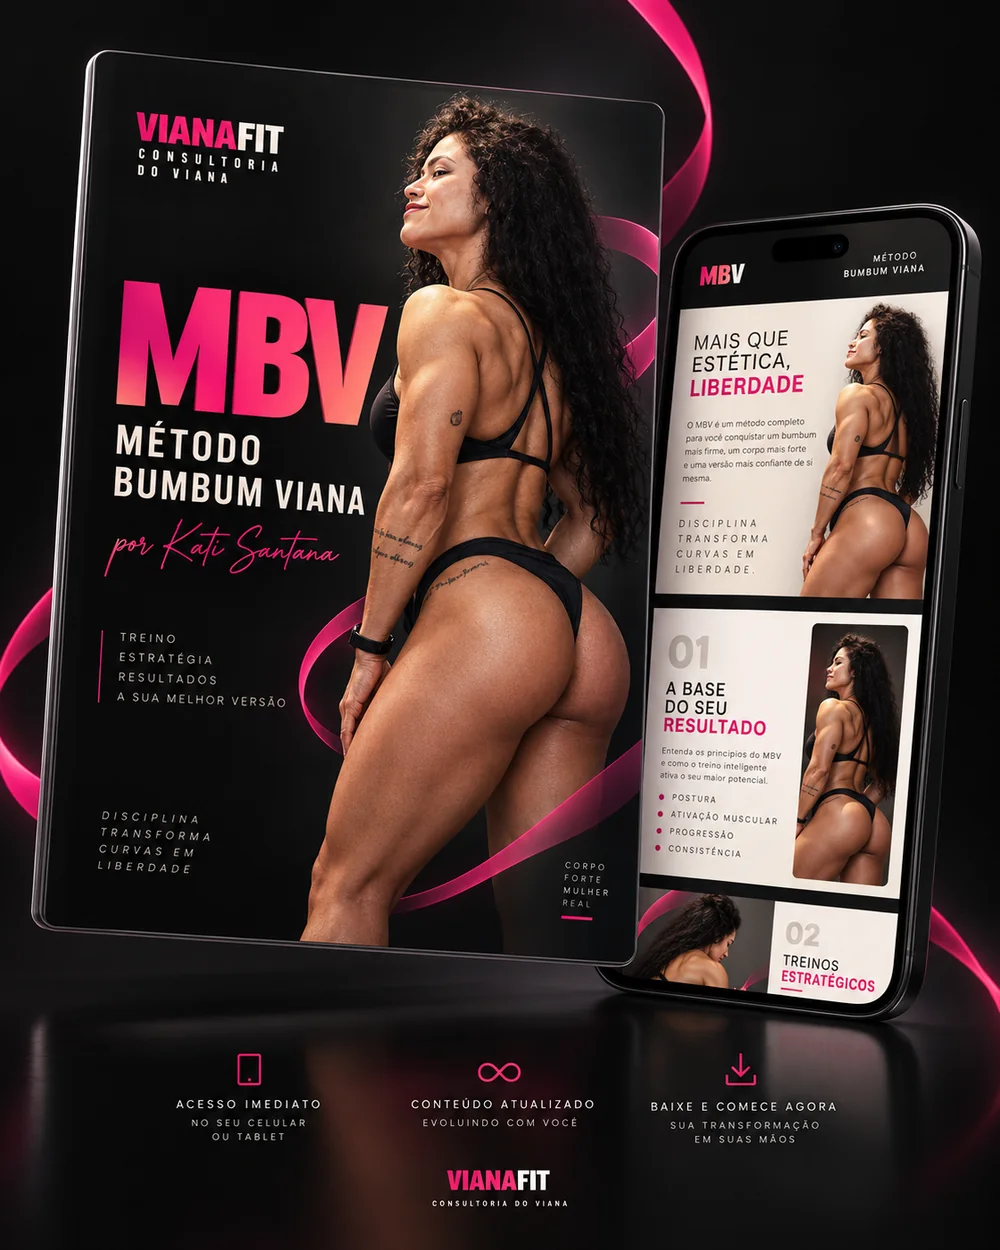
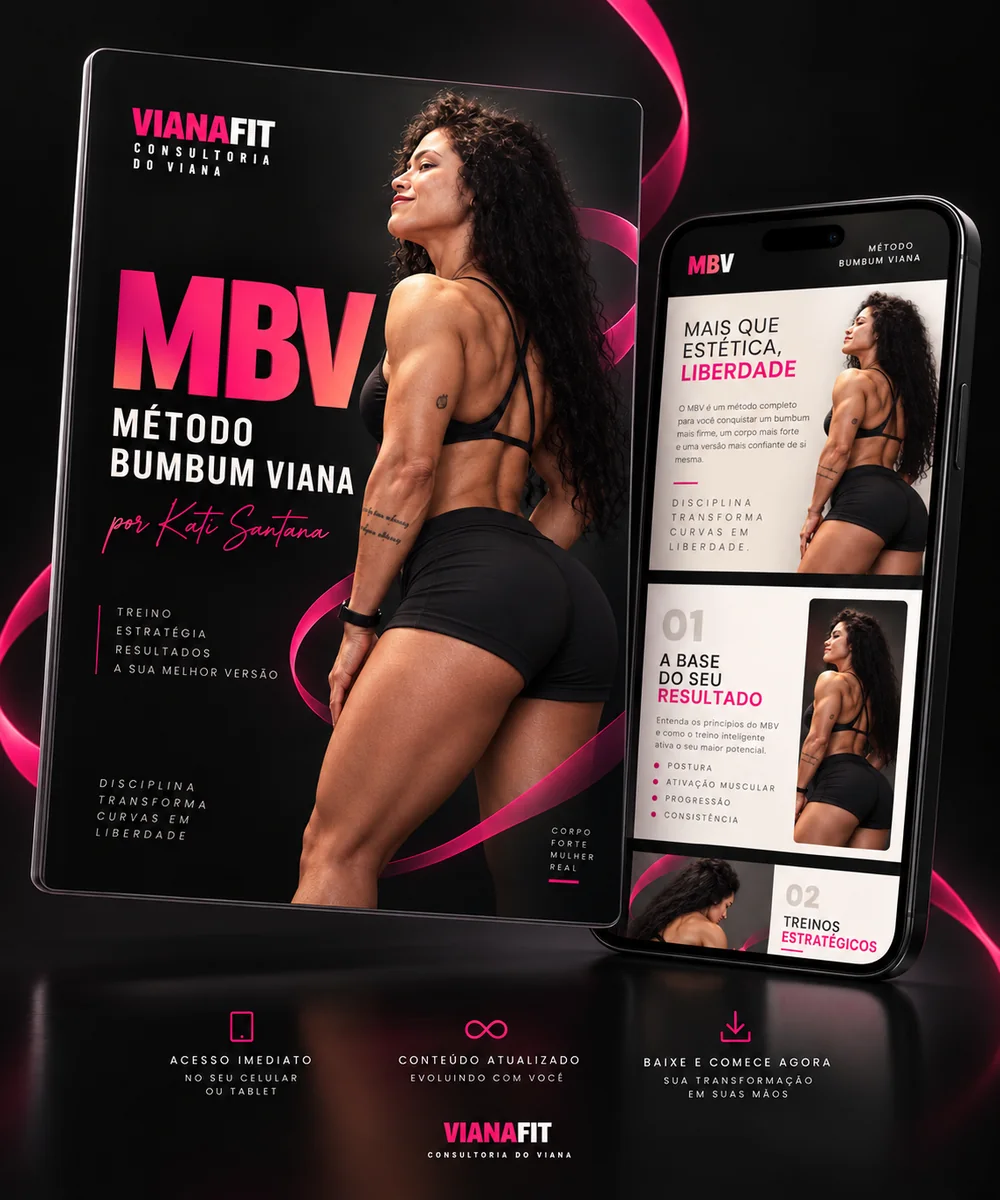
Arte nova do ebook no painel 03
mbv/Ebook.png entra no lugar da anterior em img/mbv/mockup-digital.webp.
Convertida para webp a 1000x1200, quality 84, 101KB contra 113KB da anterior.
O atributo de proporcao no HTML acompanha, de 1250 para 1200 de altura, para
nao deslocar o layout enquanto a imagem carrega.

mockup-digital.webp so e usada no painel 03, entao a troca nao afeta as pecas
do Instagram nem a da Cozinha, que usam capa-digital.webp.

Zero cortes em sete telas, 29 testes.

diff --git a/index.html b/index.html
@@ -169,7 +169,7 @@
 
       <div class="camada is-active" data-camada="produto"><div class="vitrine">
         <figure class="vitrine-peca">
-          <img src="img/mbv/mockup-digital.webp" width="1000" height="1250" alt="A capa do MBV em um tablet e o método aberto em um smartphone" loading="lazy" decoding="async">
+          <img src="img/mbv/mockup-digital.webp" width="1000" height="1200" alt="A capa do MBV em um tablet e o método aberto em um smartphone" loading="lazy" decoding="async">
         </figure>
         <div class="vitrine-info">
           <ol class="entrega-lista">

diff --git a/sections-b.html b/sections-b.html
@@ -10,7 +10,7 @@
 
       <div class="camada is-active" data-camada="produto"><div class="vitrine">
         <figure class="vitrine-peca">
-          <img src="img/mbv/mockup-digital.webp" width="1000" height="1250" alt="A capa do MBV em um tablet e o método aberto em um smartphone" loading="lazy" decoding="async">
+          <img src="img/mbv/mockup-digital.webp" width="1000" height="1200" alt="A capa do MBV em um tablet e o método aberto em um smartphone" loading="lazy" decoding="async">
         </figure>
         <div class="vitrine-info">
           <ol class="entrega-lista">
